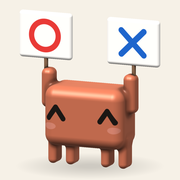
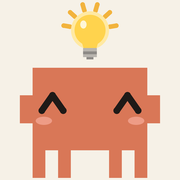
アイコンを、豆電球が光っている平らな笑顔の Clawd にする

diff --git a/sw.js b/sw.js
@@ -1,7 +1,7 @@
 // 電波がなくても開けるように、画面とカードを取っておく。
 // 先にネットを見に行き、つながらないときだけ取っておいたものを使う（作り直しがすぐ反映されるように）。
-const CACHE = 'ankicard-v8';
-const SHELL = ['./', 'index.html', 'app.js', 'stats.js', 'manifest.webmanifest', 'icon-180.png', 'icon-512.png'];
+const CACHE = 'ankicard-v9';
+const SHELL = ['./', 'index.html', 'app.js', 'stats.js', 'manifest.webmanifest', 'icon.svg', 'icon-180.png', 'icon-512.png'];
 self.addEventListener('install', e => {
   e.waitUntil(caches.open(CACHE).then(c => c.addAll(SHELL)).then(() => self.skipWaiting()));
 });

diff --git a/index.html b/index.html
@@ -5,7 +5,7 @@
 <meta name="viewport" content="width=device-width, initial-scale=1, viewport-fit=cover">
 <title>暗記カード</title>
 <link rel="manifest" href="manifest.webmanifest">
-<link rel="icon" href="icon-180.png" type="image/png">
+<link rel="icon" href="icon.svg" type="image/svg+xml">
 <link rel="apple-touch-icon" href="icon-180.png">
 <meta name="apple-mobile-web-app-capable" content="yes">
 <meta name="apple-mobile-web-app-title" content="暗記カード">

diff --git a/make_icon_bulb.py b/make_icon_bulb.py
@@ -1,0 +1,104 @@
+# アイコン：平らな Clawd をいっぱいに大きく、頭の上で豆電球がピコーンと光っている絵（2026-11-25〜）
+# python -X utf8 make_icon_bulb.py [face] [出力先のフォルダー]
+#   face：smile（^ ^。今のアイコン）・normal（ふだんの目）  → icon.svg・icon-180.png・icon-512.png
+# 座標は 512×512。PNG は4倍で描いてから縮める。
+import math, os, sys
+from PIL import Image, ImageDraw
+
+FACE = sys.argv[1] if len(sys.argv) > 1 else 'smile'
+OUT = sys.argv[2] if len(sys.argv) > 2 else '.'
+
+BG = '#F6F1E7'
+BODY = '#D97757'
+INK = '#1F1A17'
+BLUSH = '#EE9C86'
+GLASS = '#FFD34D'
+GLOW = '#FFE9A3'
+RAY = '#F2B33D'
+METAL = '#8D8A86'
+METAL2 = '#B9B5AF'
+
+# Clawd：元の絵（胴 144..369）を S 倍して、下の端に寄せる
+S = 1.45
+OX, OY = 256 - 256.5 * S, 506 - 466 * S   # 足の先が 506 に来るように
+def T(x, y): return (OX + x * S, OY + y * S)
+def R(x0, y0, x1, y1): return (*T(x0, y0), *T(x1, y1))
+
+shapes = []  # (種類, 引数…)
+# 豆電球（頭の上、まん中）
+bx, by, br = 256, 86, 44
+q = br / 54  # 口金などは電球の大きさに合わせる
+for k in range(8):                       # 光の線（下の2本は電球の口金にかかるので省く）
+    a = math.radians(-90 + (k - 3.5) * 32)
+    if math.sin(a) > 0.35:
+        continue
+    r0, r1 = br + 14, br + 32
+    shapes.append(('line', [(bx + r0 * math.cos(a), by + r0 * math.sin(a)), (bx + r1 * math.cos(a), by + r1 * math.sin(a))], 13, RAY))
+shapes.append(('ellipse', (bx - br - 10, by - br - 10, bx + br + 10, by + br + 10), GLOW))
+shapes.append(('ellipse', (bx - br, by - br, bx + br, by + br), GLASS))
+shapes.append(('poly', [(bx - 30 * q, by + 38 * q), (bx + 30 * q, by + 38 * q), (bx + 22 * q, by + 64 * q), (bx - 22 * q, by + 64 * q)], GLASS))
+shapes.append(('ellipse', (bx - 34 * q, by - 34 * q, bx - 12 * q, by - 6 * q), '#FFF6D6'))     # つや
+for y0, y1, w, c in ((62, 74, 24, METAL2), (74, 84, 24, METAL), (84, 94, 24, METAL2), (94, 102, 12, METAL)):  # 口金
+    shapes.append(('rect', (bx - w * q, by + y0 * q, bx + w * q, by + y1 * q), c))
+# Clawd
+for x in (144, 194, 294, 344):
+    shapes.append(('rect', R(x, 397, x + 25, 466), BODY))
+shapes.append(('rect', R(119, 304, 144, 359), BODY))
+shapes.append(('rect', R(369, 304, 394, 359), BODY))
+shapes.append(('rect', R(144, 250, 369, 412), BODY))
+if FACE == 'smile':
+    shapes.append(('ellipse', R(150, 346, 182, 362), BLUSH))
+    shapes.append(('ellipse', R(331, 346, 363, 362), BLUSH))
+    shapes.append(('line', [T(162, 334), T(183, 304), T(204, 334)], 13 * S, INK))
+    shapes.append(('line', [T(309, 334), T(330, 304), T(351, 334)], 13 * S, INK))
+else:
+    shapes.append(('rect', R(176, 296, 193, 336), INK))
+    shapes.append(('rect', R(320, 296, 337, 336), INK))
+
+
+def svg():
+    out = [f'<rect width="512" height="512" fill="{BG}"/>']
+    f = lambda v: f'{v:.1f}'
+    for s in shapes:
+        k = s[0]
+        if k == 'rect':
+            x0, y0, x1, y1 = s[1]
+            out.append(f'<rect x="{f(x0)}" y="{f(y0)}" width="{f(x1-x0)}" height="{f(y1-y0)}" fill="{s[2]}"/>')
+        elif k == 'ellipse':
+            x0, y0, x1, y1 = s[1]
+            out.append(f'<ellipse cx="{f((x0+x1)/2)}" cy="{f((y0+y1)/2)}" rx="{f((x1-x0)/2)}" ry="{f((y1-y0)/2)}" fill="{s[2]}"/>')
+        elif k == 'poly':
+            out.append('<polygon points="' + ' '.join(f'{f(x)},{f(y)}' for x, y in s[1]) + f'" fill="{s[2]}"/>')
+        elif k == 'line':
+            out.append('<polyline points="' + ' '.join(f'{f(x)},{f(y)}' for x, y in s[1]) + f'" fill="none" stroke="{s[3]}" stroke-width="{f(s[2])}" stroke-linecap="round" stroke-linejoin="round"/>')
+    return '<svg xmlns="http://www.w3.org/2000/svg" viewBox="0 0 512 512">' + ''.join(out) + '</svg>\n'
+
+
+def png(size):
+    k = 4
+    im = Image.new('RGB', (512 * k, 512 * k), BG)
+    d = ImageDraw.Draw(im)
+    sc = lambda b: [v * k for v in b]
+    for s in shapes:
+        t = s[0]
+        if t == 'rect':
+            x0, y0, x1, y1 = s[1]
+            d.rectangle(sc((x0, y0, x1 - 0.25, y1 - 0.25)), fill=s[2])
+        elif t == 'ellipse':
+            d.ellipse(sc(s[1]), fill=s[2])
+        elif t == 'poly':
+            d.polygon([(x * k, y * k) for x, y in s[1]], fill=s[2])
+        elif t == 'line':
+            pts = [(x * k, y * k) for x, y in s[1]]
+            w = s[2] * k
+            d.line(pts, fill=s[3], width=int(w), joint='curve')
+            for x, y in pts:
+                d.ellipse((x - w / 2, y - w / 2, x + w / 2, y + w / 2), fill=s[3])
+    return im.resize((size, size), Image.LANCZOS)
+
+
+if __name__ == '__main__':
+    open(os.path.join(OUT, 'icon.svg'), 'w', encoding='utf-8').write(svg())
+    for n in (180, 512):
+        png(n).save(os.path.join(OUT, f'icon-{n}.png'))
+    print('icon.svg icon-180.png icon-512.png →', OUT)

diff --git a/make_icons.py b/make_icons.py
@@ -1,5 +1,5 @@
 # アイコンを作る：Clawd が ○ と × の札を両手で上げている絵（本人用）
-# （前の平らな絵。今のアイコンは make_icon_soft.py）python -X utf8 make_icons.py → icon.svg・icon-180.png・icon-512.png
+# （○× の札の前の絵。今のアイコンは make_icon_bulb.py）python -X utf8 make_icons.py → icon.svg・icon-180.png・icon-512.png
 # 座標は 512×512。PNG は4倍で描いてから縮める（ふちをなめらかに）。
 from PIL import Image, ImageDraw
 

diff --git a/make_icon_soft.py b/make_icon_soft.py
@@ -1,5 +1,5 @@
 # ふっくらした立体の Clawd（角の丸い箱をなめらかにつなぎ、光を当てて描く）
-# アプリのアイコン（2026-11-25〜。前の平らな絵は make_icons.py）
+# 2026-11-25 に一度だけ使ったふっくらした立体のアイコン（今のアイコンは make_icon_bulb.py）
 # python -X utf8 make_icon_soft.py → icon-180.png・icon-512.png（2 分ほどかかる）
 import math, sys
 import numpy as np
